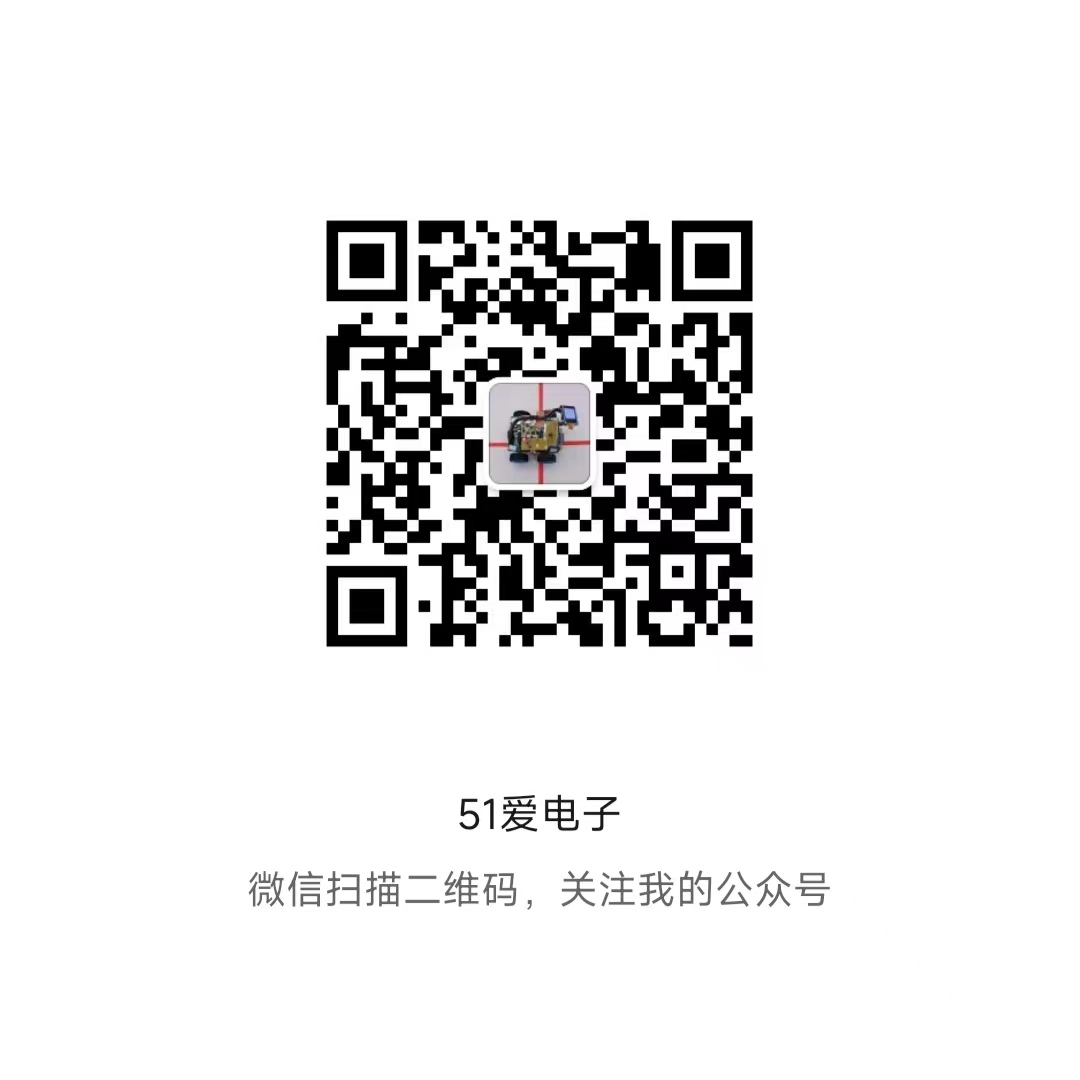
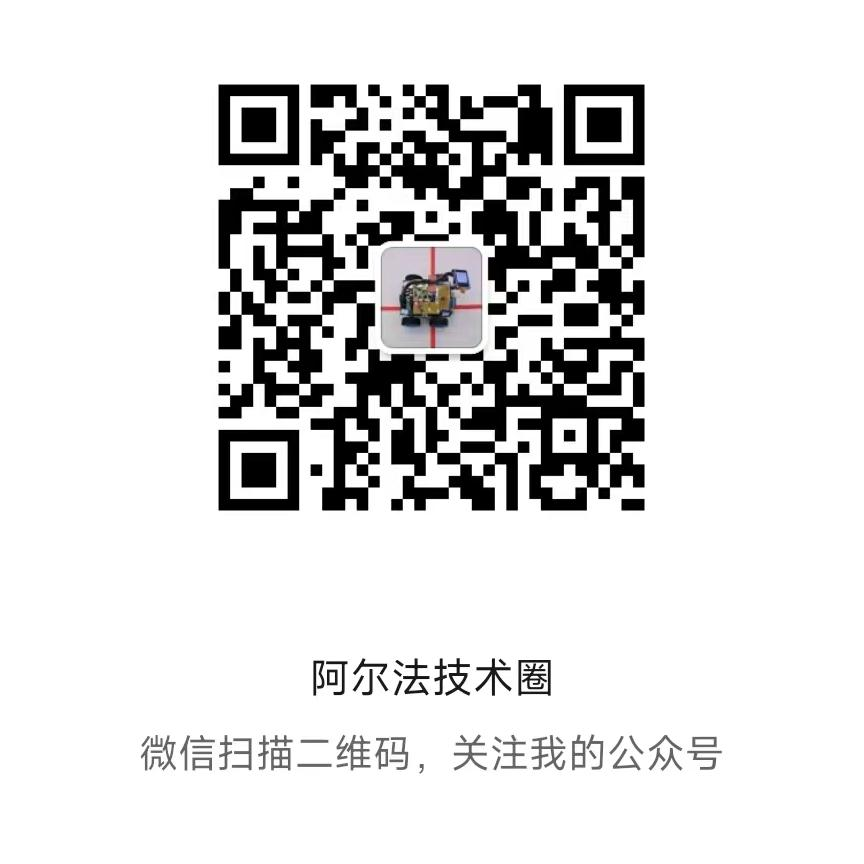
update images

Changed region(s): [[0.25, 0.0938, 0.75, 0.625], [0.1562, 0.7188, 0.8438, 0.9062]]

diff --git a/README.md b/README.md
@@ -1,7 +1,7 @@
 ## 🙋 Welcome to my world!
 | Just | Click | It! |
 | :---: | :---: | :---: |
-| [微信公众号 - 51爱电子](https://github.com/alphazcc/alphazcc/blob/main/images/vx-gzh.jpg) | [微信视频号 - Hello阿尔法](https://github.com/alphazcc/alphazcc/blob/main/images/vx-sph.jpg) | [哔哩哔哩 - Hello阿尔法](https://space.bilibili.com/506995858) |
+| [微信公众号 - 阿尔法技术圈](https://github.com/alphazcc/alphazcc/blob/main/images/vx-gzh.jpg) | [微信视频号 - Hello阿尔法](https://github.com/alphazcc/alphazcc/blob/main/images/vx-sph.jpg) | [哔哩哔哩 - Hello阿尔法](https://space.bilibili.com/506995858) |
 | [知乎 - Hello阿尔法](https://www.zhihu.com/people/alpha-42-40-51/) | [CSDN博客 - Hello阿尔法](https://blog.csdn.net/weixin_44550536/) | [稀土掘金 - Hello阿尔法](https://juejin.cn/user/488654029720605/) |
 
 ![](./images/welcome.jpg)
